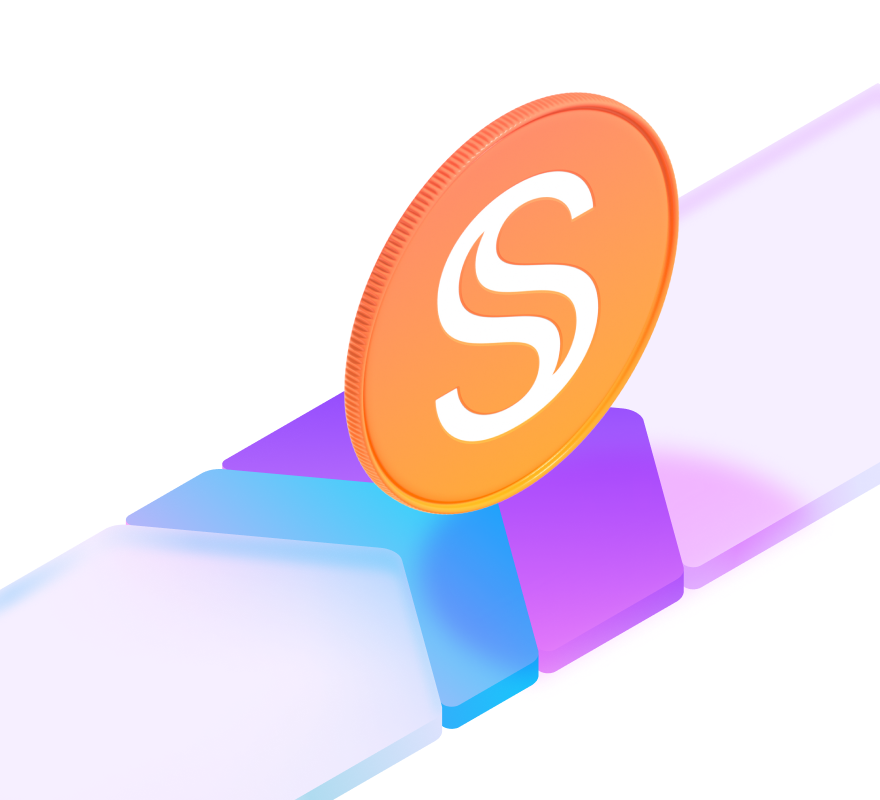
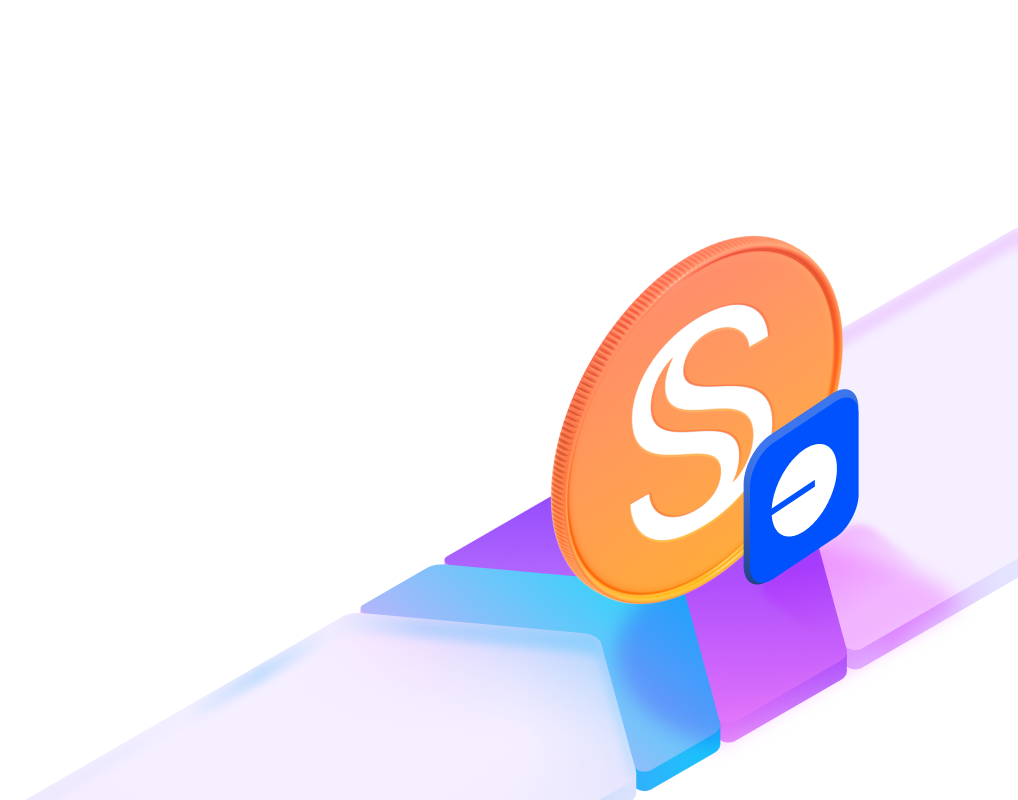
Update SkyLink illustrations

diff --git a/app/(main)/components/Features.tsx b/app/(main)/components/Features.tsx
@@ -74,6 +74,8 @@ const FeatureCardLg = ({
   buttonVariant,
   imgSrc,
   mobileImgSrc,
+  imgWidths = [295, 457],
+  imgHeights = [621, 849],
   featurePageId,
   APY,
   TVL,
@@ -81,6 +83,7 @@ const FeatureCardLg = ({
   APYDescription,
   TVLDescription,
   href,
+  reverse = true,
   isAlpha = false
 }: {
   descriptionElement: React.ReactNode;
@@ -93,6 +96,8 @@ const FeatureCardLg = ({
   buttonVariant: any;
   imgSrc: any;
   mobileImgSrc: any;
+  imgWidths?: number[];
+  imgHeights?: number[];
   featurePageId: string;
   APY: string;
   TVL: string;
@@ -100,6 +105,7 @@ const FeatureCardLg = ({
   APYDescription: string;
   TVLDescription: string;
   href: string;
+  reverse?: boolean;
   isAlpha?: boolean;
 }) => {
   const { state, setState, setIsHover } = useAutoClose({ delay: 60000 });
@@ -161,7 +167,7 @@ const FeatureCardLg = ({
       >
         <div className="p-5 tablet:pb-0 tablet:pr-0 tablet:pt-6 desktop:pl-7 desktop:pt-11 desktop-xl:pl-10 desktop-xl:pt-10">
           <div className="mb-3 mr-8 flex flex-row flex-wrap-reverse justify-between">
-            <EmphasisHeading reverse text={title} emphasisText={emphasis} tag="h5" />
+            <EmphasisHeading reverse={reverse} text={title} emphasisText={emphasis} tag="h5" />
             {isAlpha && (
               <div style={{ width: 'fit-content' }}>
                 <Text
@@ -180,8 +186,8 @@ const FeatureCardLg = ({
             <div className="flex w-full justify-center tablet:absolute tablet:bottom-0 tablet:right-0 tablet:block tablet:w-fit desktop:w-[35%] 2xl:w-fit">
               <Image
                 src={bpi === BP.sm ? mobileImgSrc : imgSrc}
-                width={bpiLoading ? 0 : bpi > BP.xl ? 457 : 295}
-                height={bpiLoading ? 0 : bpi > BP.xl ? 849 : 621}
+                width={bpiLoading ? 0 : bpi > BP.xl ? imgWidths[1] : imgWidths[0]}
+                height={bpiLoading ? 0 : bpi > BP.xl ? imgHeights[1] : imgHeights[0]}
                 alt=""
               />
             </div>
@@ -551,9 +557,9 @@ export function HomepageFeatures({ data }: { data: FetchedData }) {
           variant="glass"
           className="col-span-1 grid grid-cols-1 gap-5 rounded-3xl border p-4 tablet:col-span-2 desktop:grid-cols-2"
         >
-          <FeatureCard
+          <FeatureCardLg
             href={`${baseUrl}/?network=base`}
-            cardClassName={soonSectionClassName}
+            // cardClassName={soonSectionClassName}
             descriptionElement={
               <Text variant="p3">
                 SkyLink seamlessly connects your Ethereum-based Sky Protocol tokens and features to supported
@@ -605,13 +611,20 @@ export function HomepageFeatures({ data }: { data: FetchedData }) {
               </Text>
             }
             imgSrc="/products_skybridge.png"
+            mobileImgSrc="/products_skybridge.png"
+            imgWidths={[600, 800]}
             buttonVariant="azure-2"
             buttonText="Access SkyLink"
             title="Connect with"
             emphasis="SkyLink"
             reverse={false}
-            className="col-span-1"
+            postTitle="SkyLink"
+            className={cn('col-span-1', soonSectionClassName)}
             featurePageId="skylink"
+            APY=""
+            TVL=""
+            APYDescription=""
+            TVLDescription=""
           />
           <FeatureCard
             href=""

diff --git a/app/(main)/features/components/cards/SkyLinkCard.tsx b/app/(main)/features/components/cards/SkyLinkCard.tsx
@@ -1,6 +1,6 @@
 import Image from 'next/image';
 import { FeaturesPageCard, LiFeatureCard, TextFeatureCard } from '../FeaturesPageCard';
-import ProductsSkyBridge from '@/public/features-skylink.png';
+import ProductsSkyBridge from '@/public/products_skybridge.png';
 import ProductsSkyBridgeMobile from '@/public/features-skylink-mobile.png';
 import { useBreakpointIndex } from '@/app/hooks/useBreakpointIndex';
 
